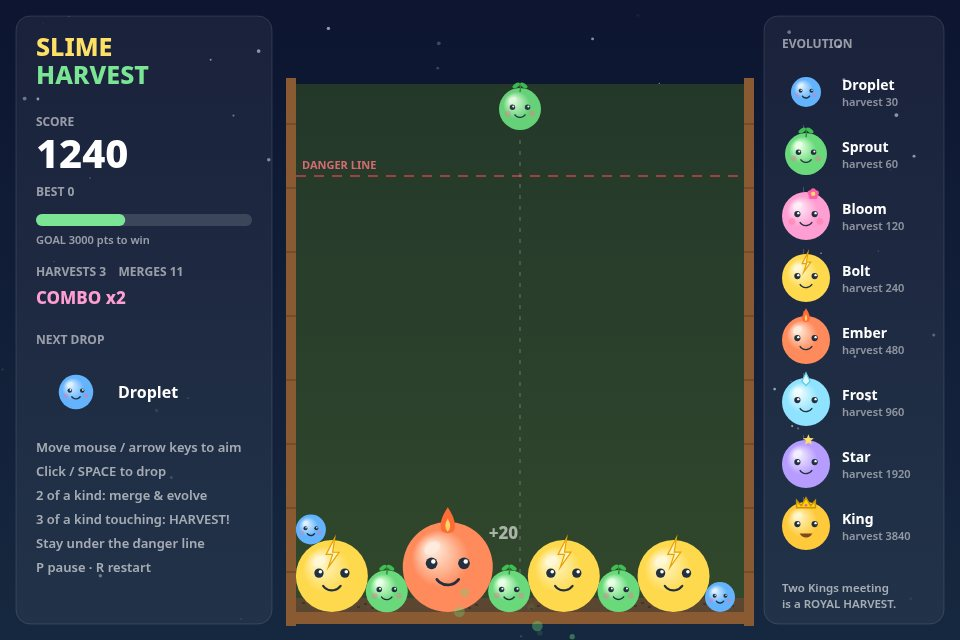
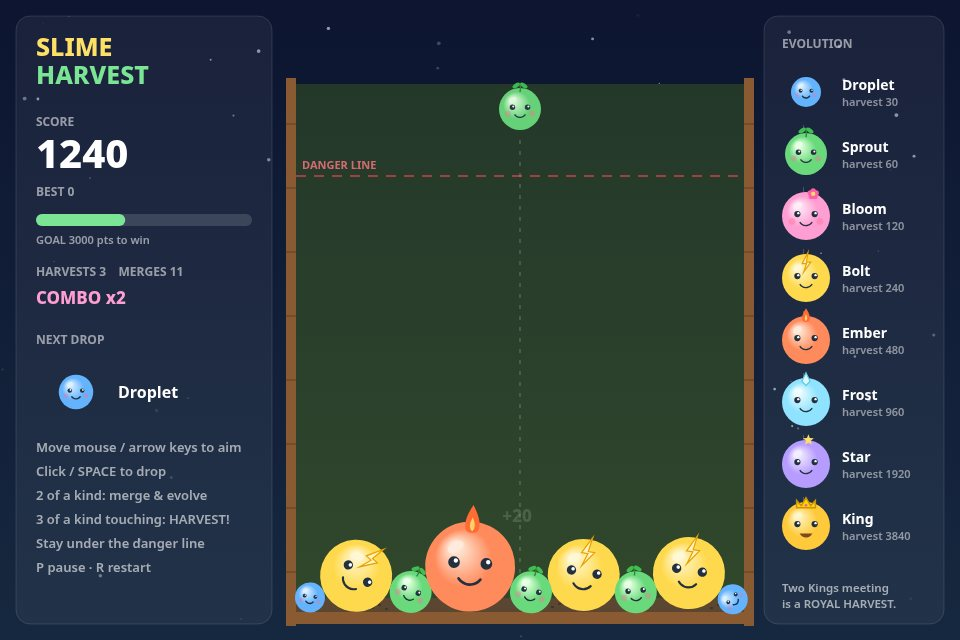
Add rolling: slimes spin as they roll and right themselves when settled
Playtest feedback: the slimes looked glued upright. They now carry an
angle and angular velocity - floor contact spins them to match their
sideways speed, glancing collisions add a little spin, ground friction
is low enough to trundle, and once a slime settles it eases back
upright so faces stay readable.

Changed region(s): [[0.2812, 0.7812, 0.7812, 1.0]]

diff --git a/game/src/world.js b/game/src/world.js
@@ -34,6 +34,8 @@ export function spawnSlime(world, stage, x, y, vx = 0, vy = 0) {
     r: def.radius,
     age: 0,
     squash: 0,
+    angle: 0,
+    angVel: 0,
     dead: false,
   };
   world.slimes.push(slime);
@@ -74,13 +76,21 @@ function stepPhysics(world, h) {
     s.vy += GRAVITY * h;
     s.x += s.vx * h;
     s.y += s.vy * h;
+    s.angVel = Math.max(-14, Math.min(14, s.angVel));
+    s.angle += s.angVel * h;
     if (s.x - s.r < BOX.left) { s.x = BOX.left + s.r; s.vx = Math.abs(s.vx) * 0.35; }
     if (s.x + s.r > BOX.right) { s.x = BOX.right - s.r; s.vx = -Math.abs(s.vx) * 0.35; }
     if (s.y + s.r > BOX.floor) {
       s.y = BOX.floor - s.r;
       if (Math.abs(s.vy) > 90) { s.vy = -s.vy * 0.22; s.squash = Math.min(1, Math.abs(s.vy) / 900); }
       else s.vy = 0;
-      s.vx *= 0.9;
+      // Rolling: keep most of the sideways speed and spin to match it, so a
+      // slime trundles along the soil instead of stopping dead.
+      s.vx *= 0.995;
+      const rolling = s.vx / s.r;
+      s.angVel += (rolling - s.angVel) * 0.4;
+    } else {
+      s.angVel *= 0.999;
     }
     if (s.y - s.r < BOX.top) { s.y = BOX.top + s.r; s.vy = Math.abs(s.vy) * 0.3; }
   }
@@ -114,6 +124,11 @@ function stepPhysics(world, h) {
         a.vy -= impulse * ny * aShare * 2;
         b.vx += impulse * nx * bShare * 2;
         b.vy += impulse * ny * bShare * 2;
+        // A glancing blow sets them spinning a little. (Applied every
+        // substep while in contact, so this must stay tiny.)
+        const tangential = rvx * -ny + rvy * nx;
+        a.angVel -= (tangential * 0.02) / Math.max(12, a.r);
+        b.angVel -= (tangential * 0.02) / Math.max(12, b.r);
       }
     }
   }
@@ -225,6 +240,14 @@ export function stepWorld(world, dt) {
     s.age += dt;
     s.squash = Math.max(0, s.squash - dt * 5);
     s.vx *= 0.999;
+    if (s.angle === undefined) { s.angle = 0; s.angVel = 0; }
+    // Once a slime settles, it rights itself: faces end up readable again.
+    const speed = Math.hypot(s.vx, s.vy);
+    if (speed < 30 && Math.abs(s.angVel) < 0.8) {
+      const upright = Math.round(s.angle / (Math.PI * 2)) * Math.PI * 2;
+      s.angle += (upright - s.angle) * Math.min(1, dt * 7);
+      s.angVel *= 0.75;
+    }
   }
   resolveRules(world);
 

diff --git a/game/src/render.js b/game/src/render.js
@@ -34,6 +34,7 @@ export function drawSlimeShape(ctx, stage, x, y, r, time, opts = {}) {
   const squash = opts.squash || 0;
   ctx.save();
   ctx.translate(x, y);
+  ctx.rotate(opts.angle || 0);
   ctx.scale(1 + squash * 0.22, 1 - squash * 0.22);
   ctx.translate(-x, -y);
 
@@ -422,7 +423,7 @@ export function drawScene(ctx, g) {
   }
 
   for (const s of world.slimes) {
-    drawSlimeShape(ctx, s.stage, s.x, s.y, s.r, time, { squash: s.squash, vx: s.vx, phase: s.id * 0.73 });
+    drawSlimeShape(ctx, s.stage, s.x, s.y, s.r, time, { squash: s.squash, vx: s.vx, phase: s.id * 0.73, angle: s.angle || 0 });
   }
   for (const p of world.particles) {
     ctx.globalAlpha = Math.max(0, 1 - p.life / p.maxLife);
